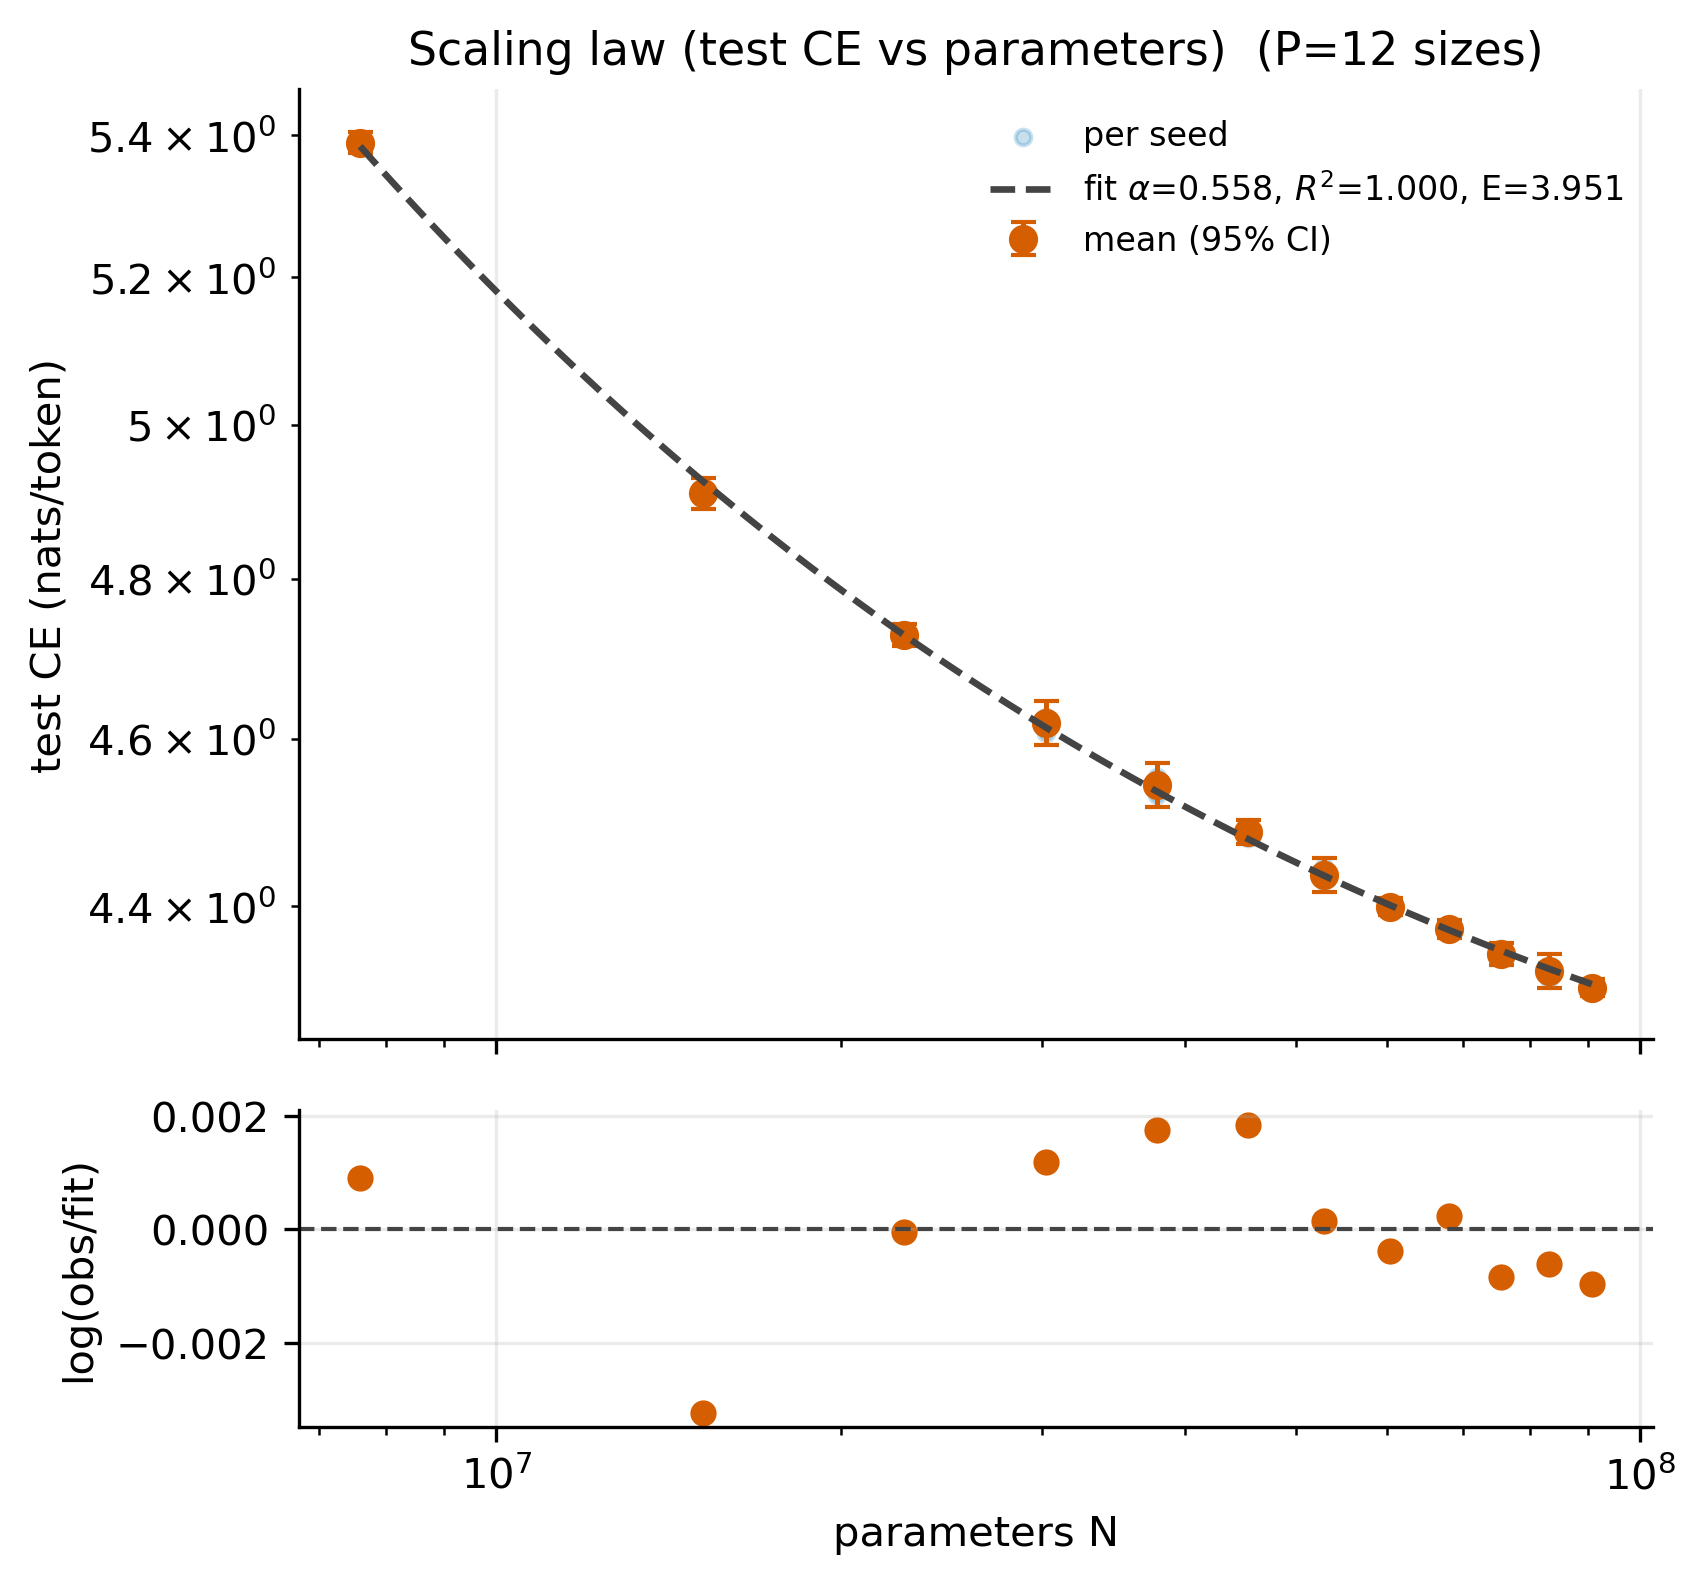
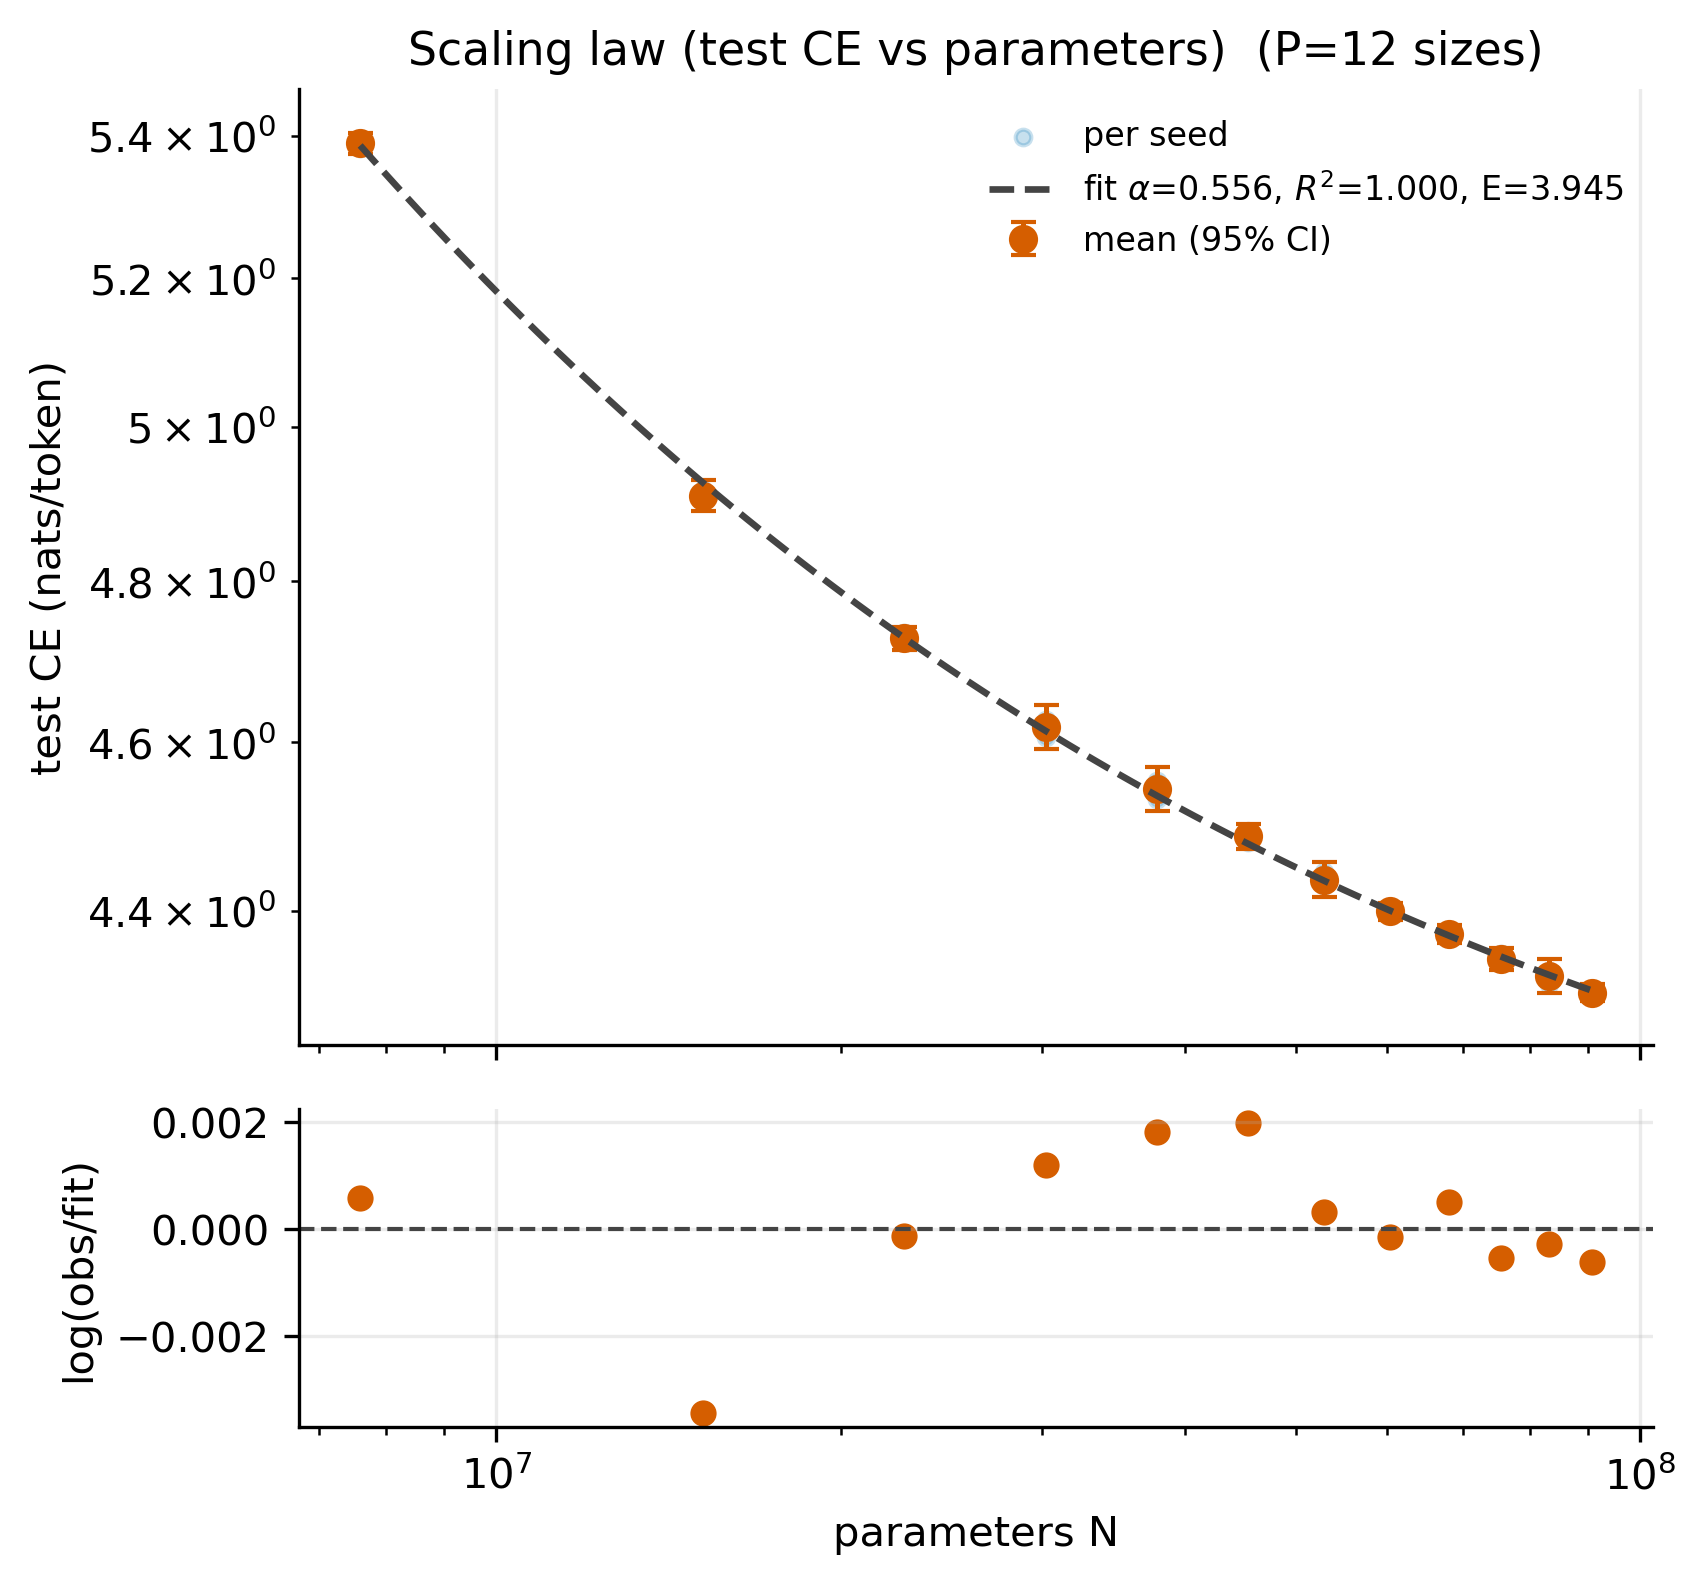
chore(scaling): grow_K_GL10 re-run under the m29 WLS offset fit
Re-ran scaling_analysis on grow_K_GL10 with the m29 fix active -- the with_offset/Chinchilla
E + A*N^-alpha fit now honors the WLS weights instead of unweighted OLS. The pooled offset
coefficients shift: alpha 0.5584 -> 0.5561, A 9969 -> 9666, E 3.9506 -> 3.9453, 95% CI
[0.390, 0.603] -> [0.400, 0.600] (tighter), R^2 0.9996 -> 0.9995 over 12 sizes. These supersede
the previously-cited grow_K_GL10 offset numbers.

diff --git a/vfe3_scaling_results/grow_K_GL10/SCALING_ANALYSIS.md b/vfe3_scaling_results/grow_K_GL10/SCALING_ANALYSIS.md
@@ -6,6 +6,6 @@
 
 ## Pooled L(N) power law
 
-- exponent alpha = 0.5584  (95% CI [0.3899, 0.6031])
-- A = 9969, E = 3.9506
-- R^2 = 0.9996 over 12 sizes
+- exponent alpha = 0.5561  (95% CI [0.3998, 0.5997])
+- A = 9666, E = 3.9453
+- R^2 = 0.9995 over 12 sizes